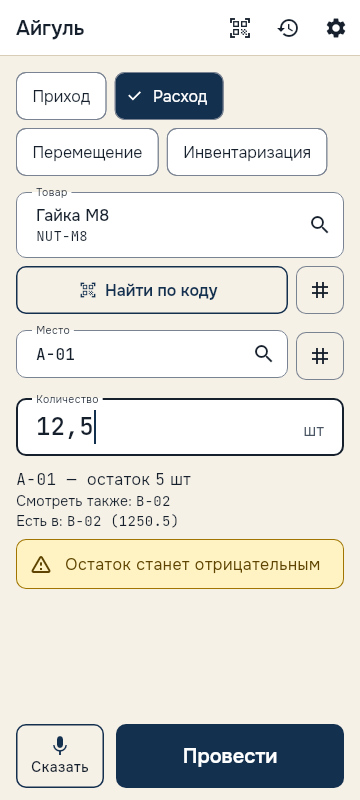
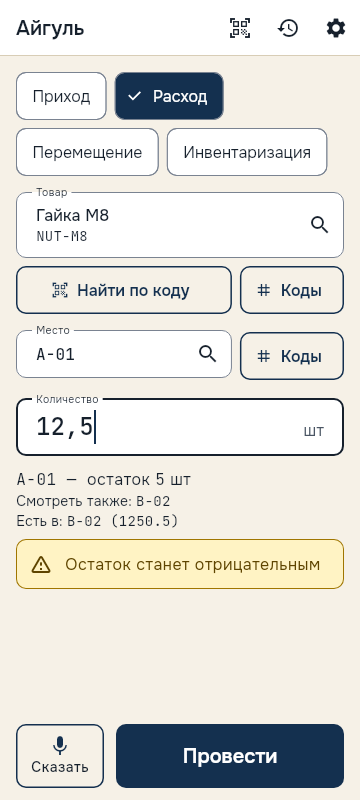
Q-04: app assign by scan or typing, code list and remove, duplicate-code error, unknown code in operation form
T-0072 implement attempt 2: I fixed both gui_review findings. `flutter analyze` is clean and all 159 mobile tests pass. No server code changed, so I did not re-run the Go tests.

- **Rule 6 (blocker):** the two icon-only `#` buttons are now `OutlinedButton.icon` with the visible word "Коды" / "Кодтар". Each is at least 48×48 px and sits in the same row as before, so the form height is unchanged and the negative-balance test is untouched. The longer "Коды товара" / "Коды места" strings are the semantic label. The design exc

diff --git a/mobile/test/codes_test.dart b/mobile/test/codes_test.dart
@@ -38,6 +38,9 @@ http.Response _json(Object body, [int status = 200]) => http.Response.bytes(
 
 /// A stand-in codes server: keeps active codes in memory, refuses a code another item holds.
 class FakeCodes {
+  /// Name of SKU 1 in the catalog (tests set a long one).
+  String nutName = 'Гайка М8';
+
   /// code -> row. 'WASHER' belongs to SKU 2 from the start.
   final rows = <String, Map<String, dynamic>>{
     'WASHER': {
@@ -69,7 +72,7 @@ class FakeCodes {
     if (path == '/api/catalog') {
       return _json({
         'skus': [
-          {'id': 1, 'code': 'NUT-M8', 'name': 'Гайка М8', 'unit': 'шт'},
+          {'id': 1, 'code': 'NUT-M8', 'name': nutName, 'unit': 'шт'},
           {'id': 2, 'code': 'WSH-M8', 'name': 'Шайба М8', 'unit': 'шт'},
         ],
         'locations': [
@@ -122,7 +125,7 @@ class FakeCodes {
         'object_type': b['object_type'],
         'object_id': b['object_id'],
         'object_code': b['object_id'] == 1 ? 'NUT-M8' : 'WSH-M8',
-        'object_name': b['object_id'] == 1 ? 'Гайка М8' : 'Шайба М8',
+        'object_name': b['object_id'] == 1 ? nutName : 'Шайба М8',
         'code_type': b['code_type'],
         'code': b['code'],
       };
@@ -431,6 +434,43 @@ void main() {
         reason: 'stays to scan another',
       );
     });
+
+    testWidgets(
+      '360 px, kk, long item name: worded codes button and offer fit',
+      (tester) async {
+        tester.view.physicalSize = const Size(360 * 3, 2400);
+        tester.view.devicePixelRatio = 3;
+        addTearDown(tester.view.reset);
+        final fake = FakeCodes()
+          ..nutName = 'Гайка шестигранная оцинкованная М8 х 40 усиленная';
+        await tester.pumpWidget(
+          MaterialApp(
+            home: OperationScreen(
+              settings: AppSettings(
+                serverUrl: 'http://server',
+                operator: 'Айгуль',
+                lang: 'kk',
+              ),
+              api: fake.api(),
+              voice: _NoVoice(),
+              scanner: _Scans([const ScanText('4601234567890'), unknown]),
+            ),
+          ),
+        );
+        await tester.pumpAndSettle();
+        await scanOnce(tester);
+        expect(find.text('Кодтар'), findsOneWidget, reason: 'visible word');
+        expect(
+          tester.getSize(find.byKey(const Key('sku_codes'))).height,
+          greaterThanOrEqualTo(48),
+        );
+        await scanOnce(tester);
+        final offer = find.byKey(const Key('code_assign_offer'));
+        expect(offer, findsOneWidget);
+        expect(tester.getSize(offer).height, greaterThanOrEqualTo(48));
+        expect(tester.takeException(), isNull);
+      },
+    );
 
     testWidgets('the item and location code lists open from the form', (
       tester,

diff --git a/mobile/lib/operation_screen.dart b/mobile/lib/operation_screen.dart
@@ -201,12 +201,17 @@ class _OperationScreenState extends State<OperationScreen> with WidgetsBindingOb
     }
   }
 
-  /// Opens the codes of a SKU or location. Icon-only (48 px) so the form does not grow taller.
-  Widget _codesButton(String key, String label, String type, int id, String title) => IconButton.outlined(
+  /// Opens the codes of a SKU or location. A short visible word ("Коды") keeps the row on one line;
+  /// the longer [label] is the semantic label.
+  Widget _codesButton(String key, String label, String type, int id, String title) => Semantics(
+        label: label,
+        button: true,
+        excludeSemantics: true,
+        child: OutlinedButton.icon(
         key: Key(key),
-        tooltip: label,
-        constraints: const BoxConstraints(minWidth: AppSize.touchMin, minHeight: AppSize.touchMin),
+        style: OutlinedButton.styleFrom(minimumSize: const Size(AppSize.touchMin, AppSize.touchMin)),
         icon: const Icon(Icons.tag),
+        label: Text(_s('codes_of')),
         onPressed: () => Navigator.of(context).push(MaterialPageRoute(
           builder: (_) => CodesScreen(
             settings: widget.settings,
@@ -217,6 +222,7 @@ class _OperationScreenState extends State<OperationScreen> with WidgetsBindingOb
             scanner: widget.scanner,
           ),
         )),
+        ),
       );
 
   Future<Location?> _pickLocation(String title) {

diff --git a/mobile/lib/code_find.dart b/mobile/lib/code_find.dart
@@ -190,15 +190,13 @@ class _CodeFindScreenState extends State<CodeFindScreen> {
             ),
             if (widget.assignTo != null && _unknown != null) ...[
               const SizedBox(height: AppSpace.s2),
-              SizedBox(
-                height: AppSize.touchMin,
-                child: FilledButton(
-                  key: const Key('code_assign_offer'),
-                  onPressed: _busy ? null : _assign,
-                  child: Text(
-                    _s('code_assign_offer').replaceAll('{name}', widget.assignTo!.name),
-                    textAlign: TextAlign.center,
-                  ),
+              FilledButton(
+                key: const Key('code_assign_offer'),
+                style: FilledButton.styleFrom(minimumSize: const Size.fromHeight(AppSize.touchMin)),
+                onPressed: _busy ? null : _assign,
+                child: Text(
+                  _s('code_assign_offer').replaceAll('{name}', widget.assignTo!.name),
+                  textAlign: TextAlign.center,
                 ),
               ),
             ],

diff --git a/mobile/lib/codes.dart b/mobile/lib/codes.dart
@@ -438,16 +438,13 @@ class _CodeAssignScreenState extends State<CodeAssignScreen> {
             ),
             if (_owner != null) ...[
               const SizedBox(height: AppSpace.s2),
-              SizedBox(
-                height: AppSize.touchMin,
-                child: TextButton(
-                  key: const Key('code_open_owner'),
-                  onPressed: _openOwner,
-                  child: Text(
-                    _s(
-                      'code_open_owner',
-                    ).replaceAll('{name}', _ownerName(_owner!)),
-                  ),
+              TextButton(
+                key: const Key('code_open_owner'),
+                style: TextButton.styleFrom(minimumSize: const Size.fromHeight(AppSize.touchMin)),
+                onPressed: _openOwner,
+                child: Text(
+                  _s('code_open_owner').replaceAll('{name}', _ownerName(_owner!)),
+                  textAlign: TextAlign.center,
                 ),
               ),
             ],
